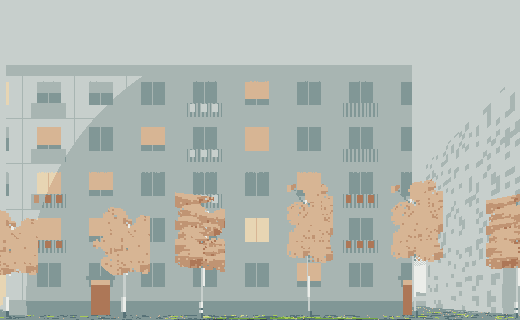
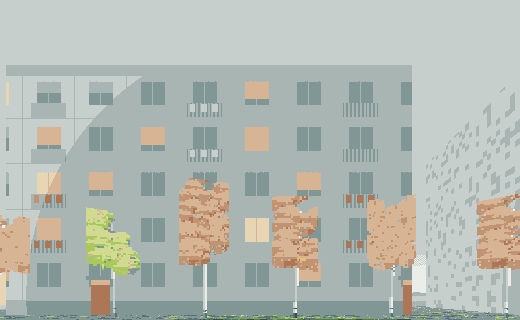
Остановка: заводы ОЭЗ с паром видны в тумане, собака у фонаря, вырезанные на столе буквы читаются

diff --git a/src/game/world3d/rooms/street.gen.ts b/src/game/world3d/rooms/street.gen.ts
@@ -3,4 +3,4 @@
 
 export const ATLAS = {"w": 512, "h": 512, "rects": {"birch0": [1, 1, 65, 170], "birch1": [68, 1, 65, 170], "pav_glass": [135, 1, 36, 84], "kiosk": [173, 1, 144, 80], "pav_ad": [319, 1, 40, 76], "timetable": [361, 1, 40, 48], "clock": [403, 1, 40, 40], "kiosk_side": [445, 1, 32, 40], "car_side": [403, 43, 96, 32], "car_front": [361, 77, 48, 32], "car_back": [411, 77, 48, 32], "kwin_dim": [461, 77, 41, 28], "shawarma_roll": [319, 79, 16, 24], "stop_sign": [337, 79, 20, 20], "sign": [173, 83, 138, 16], "dog": [135, 87, 32, 16], "cardboard": [169, 101, 24, 16], "urn": [195, 101, 24, 16], "crate_top": [221, 101, 16, 16], "water_side": [239, 101, 12, 16], "seeds": [253, 101, 12, 16], "ketchup": [267, 101, 8, 16], "mustard": [277, 101, 8, 16], "pole": [287, 101, 8, 16], "cup": [297, 101, 12, 14], "crate": [337, 101, 16, 12], "napkins": [135, 105, 8, 12], "trash": [145, 105, 12, 10], "pav_name": [355, 111, 120, 8], "plank": [477, 107, 32, 8], "shawarma": [311, 105, 24, 8], "lamp_head": [311, 115, 16, 8], "chrome": [159, 105, 8, 8], "water_top": [159, 115, 8, 8], "concrete": [329, 115, 8, 8], "metal": [339, 115, 8, 8], "pav_roof": [145, 117, 8, 8], "pav_post": [297, 117, 8, 8], "lamp_glow": [477, 117, 8, 8], "urn_top": [487, 117, 8, 8], "shawarma_end": [497, 117, 8, 8], "cup_top": [135, 119, 8, 8], "pigeon0": [169, 119, 10, 7], "pigeon1": [181, 119, 10, 7], "pigeon2": [193, 119, 10, 7], "pav_fascia": [205, 119, 40, 6], "slat": [247, 119, 24, 6], "shelf": [273, 119, 16, 6], "plank_edge": [349, 121, 32, 4], "clock_rim": [383, 121, 8, 4], "c36": [507, 117, 4, 4], "c37": [291, 119, 4, 4], "c38": [393, 121, 4, 4], "c39": [399, 121, 4, 4], "c40": [405, 121, 4, 4], "c41": [343, 125, 4, 4], "c42": [417, 121, 4, 4], "c43": [423, 121, 4, 4], "c44": [429, 121, 4, 4], "c45": [435, 121, 4, 4], "c19": [441, 121, 4, 4], "c20": [447, 121, 4, 4], "c21": [453, 121, 4, 4], "c22": [459, 121, 4, 4], "c27": [465, 121, 4, 4], "c12": [471, 121, 4, 4], "c13": [507, 123, 4, 4], "c18": [155, 125, 4, 4], "c16": [161, 125, 4, 4], "c2": [291, 125, 4, 4], "c3": [307, 125, 4, 4], "c7": [313, 125, 4, 4], "c8": [319, 125, 4, 4], "c26": [325, 125, 4, 4], "c23": [331, 125, 4, 4], "c29": [337, 125, 4, 4]}} as const
 
-export const PLACE = {"kiosk": [-3.7, -0.1, -3.8, 1.9, 2.0], "kwin": [-1.62, -0.62, 0.9, 1.56], "clock": [-0.92, 1.81, -3.782, 0.138], "sign": [-3.62, -0.18, 2.0, 2.4], "lamps": [[-3.65, -2.45, -3.05, 4.1, -2.45, 2.0], [5.25, -0.2, 5.85, 4.3, -0.2, 2.1], [5.25, -10.6, 5.85, 4.3, -10.6, 2.2]], "pavilion": [4.0, 5.1, -1.9, -4.7, 2.4], "stop_pole": [4.55, -5.15], "bin": [2.72, -1.55], "dog": [-2.75, -2.75], "birches": [[-5.7, -0.9, 0], [-7.0, 1.7, 1], [-4.1, 3.6, 0], [3.3, 3.2, 1]], "pigeons": [[2.35, 0.95], [2.62, 1.25], [2.2, 1.45]], "road": [5.4, 5.6, 11.6, 7.1, 10.1], "shawarma": [1.05, -0.33, 0.35], "cup": [-1.08, -0.22], "seeds": [1.33, 0.06, -0.4], "walls": [-14.0, 13.0, 12.0, 16.0], "fogring": [9.5, -11.0, 9.0, 4.5], "chimneys": [[3.959, 2.84, -13.92, 0.264], [6.671, 2.489, -13.92, 0.28], [10.393, 2.326, -13.92, 0.312]], "kwin_px": [83, 17]} as const
+export const PLACE = {"kiosk": [-3.7, -0.1, -3.8, 1.9, 2.0], "kwin": [-1.62, -0.62, 0.9, 1.56], "clock": [-0.92, 1.81, -3.782, 0.138], "sign": [-3.62, -0.18, 2.0, 2.4], "lamps": [[-3.65, -2.45, -3.05, 4.1, -2.45, 2.0], [5.25, -0.2, 5.85, 4.3, -0.2, 2.1], [5.25, -10.6, 5.85, 4.3, -10.6, 2.2]], "pavilion": [4.0, 5.1, -1.9, -4.7, 2.4], "stop_pole": [4.55, -5.15], "bin": [2.72, -1.55], "dog": [-3.25, -2.2], "birches": [[-5.7, -0.9, 0], [-7.0, 1.7, 1], [-4.1, 3.6, 0], [3.3, 3.2, 1]], "pigeons": [[2.35, 0.95], [2.62, 1.25], [2.2, 1.45]], "road": [5.4, 5.6, 11.6, 7.1, 10.1], "shawarma": [1.05, -0.33, 0.35], "cup": [-1.08, -0.22], "seeds": [1.33, 0.06, -0.4], "walls": [-14.0, 13.0, 12.0, 16.0], "fogring": [9.5, -11.0, 9.0, 4.5], "chimneys": [[3.959, 2.84, -13.92, 0.264], [6.671, 2.489, -13.92, 0.28], [10.393, 2.326, -13.92, 0.312]], "kwin_px": [83, 17]} as const

diff --git a/src/game/world3d/rooms/street.ts b/src/game/world3d/rooms/street.ts
@@ -182,7 +182,7 @@ function buildStreet(): RoomBuild {
     const col = new Float32Array(pos.count * 4)
     for (let i = 0; i < pos.count; i++) {
       const k = pos.getY(i) / hy // 0 у земли, 1 у лампы
-      col.set([1, 1, 1, 0.1 + 0.16 * k * k], i * 4)
+      col.set([1, 1, 1, 0.14 + 0.14 * k], i * 4)
     }
     geo.setAttribute('color', new BufferAttribute(col, 4))
     const m = kit.mesh(geo, coneMat)
@@ -203,7 +203,13 @@ function buildStreet(): RoomBuild {
   steam(0.06, 0.14, shx - 0.1, Y + 0.06, shz)
   steam(0.05, 0.12, cux, Y + 0.1, cuz)
   steam(0.34, 0.9, kx0 + 0.6, kh + 0.5, kz - kd + 0.45)
-  for (const [x, y, z, k] of P.chimneys) steam(k * 1.4, k * 5, x, y, z)
+  // пар из труб ОЭЗ — серее, иначе на бледном небе его не видно
+  const farSteam = kit.mat(steamTex, true, 0xa8b5b2)
+  for (const [x, y, z, k] of P.chimneys) {
+    const s = kit.mesh(new PlaneGeometry(k * 1.6, k * 6).translate(0, k * 3, 0), farSteam)
+    s.position.set(x, y, z)
+    g.add(s)
+  }
 
   // ------------------------------------------------------------------ туман кольцом, медленно ползёт
   const [fx, fzb, fzf, fh] = P.fogring

diff --git a/tools/art/rooms_a.py b/tools/art/rooms_a.py
@@ -156,7 +156,7 @@ S_PLACE = {
     # столб с табличкой остановки
     'stop_pole': [4.55, -5.15],
     'bin': [2.72, -1.55],
-    'dog': [-2.75, -2.75],
+    'dog': [-3.25, -2.2],
     'birches': [[-5.7, -0.9, 0], [-7.0, 1.7, 1], [-4.1, 3.6, 0], [3.3, 3.2, 1]],
     'pigeons': [[2.35, 0.95], [2.62, 1.25], [2.2, 1.45]],
     # дорога вдоль z: x бордюра, x0, x1 проезжей части, полосы для машин
@@ -317,9 +317,10 @@ def ground_tex(x0, x1, z0, z1, s, fine=True, fog=True):
     ys, xs_ = np.mgrid[0:h, 0:w]
     for (lx, lz, hx, hy, hz, r) in P['lamps']:
         d = np.hypot(X - hx, Z - hz) / r + 0.12 * (BAYER2[ys % 2, xs_ % 2] - 0.4)
-        m1 = d < 1.0
+        green = np.isin(t.a, [6, 7, 8, 9, 10, 11])  # трава под фонарём почти не светлеет
+        m1 = (d < 1.0) & ~green
         t.a[m1] = lighter(t.a[m1])
-        warm(t.a, (d < 0.45) & ((ys + xs_) % 2 == 0), 1)
+        warm(t.a, (d < 0.45) & ((ys + xs_) % 2 == 0) & ~green, 1)
     wx0, wx1 = P['kwin'][:2]
     spill = (Z > kz) & (Z < kz + 1.5) & (X > wx0 - 0.4 * (Z - kz)) & (X < wx1 + 0.4 * (Z - kz))
     spill &= (BAYER2[ys % 2, xs_ % 2] < 0.7 - (Z - kz) * 0.35)
@@ -536,6 +537,8 @@ def far_panorama():
     for a0, a1, hh in sheds:
         t.rect(C(a0), Rw(hh), C(a1), Rw(-0.6), 43)
         t.rect(C(a0), Rw(hh), C(a1), Rw(hh) + 1, 42)
+        for x in range(int(C(a0)) + 3, int(C(a1)) - 2, 7):  # окна-ленты цехов
+            t.rect(x, Rw(hh) + 4, x + 3, Rw(hh) + 5, 42)
     # корпус с пилообразной крышей
     for az in np.arange(-31, -26, 0.8):
         t.poly([(C(az), Rw(1.7)), (C(az + 0.8), Rw(1.7)), (C(az + 0.8), Rw(2.3))], 43)
@@ -544,8 +547,16 @@ def far_panorama():
     for az, hh in stacks:
         x = C(az)
         t.rect(x - 1, Rw(hh), x + 1, Rw(0), 42)
-        for k in (0.9, 0.75):
+        t.rect(x + 1, Rw(hh), x + 1, Rw(0), 41)
+        for k in (0.93, 0.8):
             t.rect(x - 1, Rw(hh * k), x + 1, Rw(hh * k) + 2, 15)
+        # шлейф пара, ветер сносит влево
+        for i in range(24):
+            f = i / 24
+            cx_ = x - 2 - i * 2.2
+            cy_ = Rw(hh) - 3 - i * 0.9 - 3 * np.sin(f * 3)
+            t.ellipse(cx_, cy_, 2.5 + i * 0.35, 1.8 + i * 0.25, 44)
+            t.ellipse(cx_ + 1, cy_ + 1 + i * 0.1, 1.5 + i * 0.25, 1.0 + i * 0.15, 43)
     # краны на стройке нового цеха
     for az, hh in ((-19.5, 4.2), (-10.5, 3.4)):
         x = C(az)
@@ -690,8 +701,6 @@ def make_billboards():
     for lz in (-21.0, -31.4, -41.8, -52.2, -62.6):
         bb.append((5.25 + 0.3, lz, lamp, 0.1))
     trees = []
-    for z in np.arange(-16, -70, -6.5):  # наша сторона дороги
-        trees.append((4.2 + r2.uniform(-0.3, 0.3), z + r2.uniform(-1, 1)))
     for z in np.arange(-15, 14, 5.5):  # тротуар напротив
         trees.append((14.4 + r2.uniform(-0.2, 0.4), z + r2.uniform(-1, 1)))
     for _ in range(8):  # двор слева
@@ -804,10 +813,10 @@ def street_table():
             t.mask(m, 42 if r2.random() < 0.7 else 20)
             t.mask(m & (ys > cy), 41)
     # вырезано ножом
-    t.text(X(-1.22), Zt(0.03), 'ДИМА', 6)
-    t.text(X(-1.2), Zt(0.03) + 7, '+ОЛЯ', 6)
-    t.text(X(0.95), Zt(-0.8), '2019', 6)
-    t.text(X(-0.32), Zt(-0.86), 'Ы', 6)
+    t.text(X(-1.22), Zt(0.03), 'ДИМА', 20)
+    t.text(X(-1.2), Zt(0.03) + 7, '+ОЛЯ', 20)
+    t.text(X(0.95), Zt(-0.8), '2019', 41)
+    t.text(X(-0.32), Zt(-0.86), 'Ы', 41)
     # подпалины от окурков
     for (x, z) in ((-0.8, 0.16), (1.36, -0.62), (-1.38, -0.55), (0.72, 0.2), (-0.58, -0.63)):
         t.ellipse(X(x), Zt(z), 2.2, 1.5, 20)
